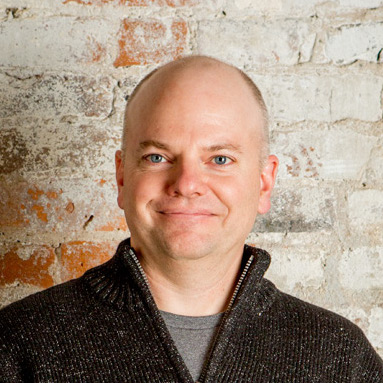
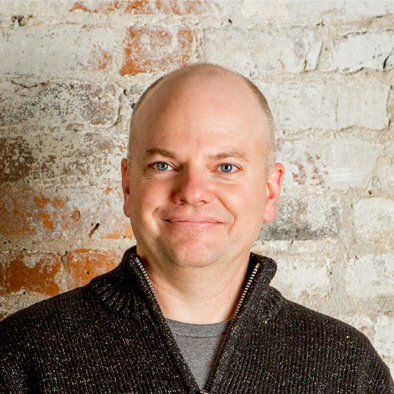
Site updated at 2018-09-21 12:15:00 UTC

diff --git a/index.html b/index.html
@@ -252,7 +252,7 @@ On this blog, he writes about all aspects of running an indie game development b
     
       
         <div class="col-md-6 centered" id="kent-mcdonald">
-              <img class="img img-circle img-md" src="/assets/img/speakers/kent-mcdonald.png" alt="">
+              <img class="img img-circle img-md" src="/assets/img/speakers/kent-mcdonald.jpg" alt="">
               <br>
               <h4><b>Kent McDonald</b></h4>
               
@@ -269,7 +269,8 @@ On this blog, he writes about all aspects of running an indie game development b
 
               <p>Kent writes about and practices software product development. He has IT and product development experience in a variety of industries including financial services, health insurance, nonprofit, and automotive. Kent practices his craft as Content Curator at Agile Alliance and provides just in time resources for product owners and business analysts at KBP.media.  When not writing or product managing, Kent is his family’s #ubersherpa, listens to jazz and podcasts (but not necessarily podcasts about jazz), and collects national parks.
 <br/><br/>
-Kent is author of <i>Beyond Requirements: Analysis with an Agile Mindset</i>, and co-author of <i>Stand Back and Deliver: Accelerating Business Agility</i>.</p>
+Kent is author of <i>Beyond Requirements: Analysis with an Agile Mindset</i>, and co-author of <i>Stand Back and Deliver: Accelerating Business Agility</i>.
+</p>
           </div>
       
     
@@ -587,7 +588,7 @@ Merely slinging code is not enough. You are not a code monkey following orders. 
           
             
             <a href="#kent-mcdonald" class="smoothScroll">
-              <img class="img img-circle" src="/assets/img/speakers/kent-mcdonald.png" height="60px" width="60px" alt="">
+              <img class="img img-circle" src="/assets/img/speakers/kent-mcdonald.jpg" height="60px" width="60px" alt="">
           </a>
           <br>
           <h4>Kent McDonald</h4>
@@ -961,7 +962,7 @@ Learning Outcomes
               <div class="col-lg-4">
                   
                   <a href="#kent-mcdonald" class="smoothScroll">
-                      <img class="img img-circle" src="/assets/img/speakers/kent-mcdonald.png" height="60px" width="60px" alt="">
+                      <img class="img img-circle" src="/assets/img/speakers/kent-mcdonald.jpg" height="60px" width="60px" alt="">
                   </a>
                   <h4>Kent McDonald</h4>
                   
